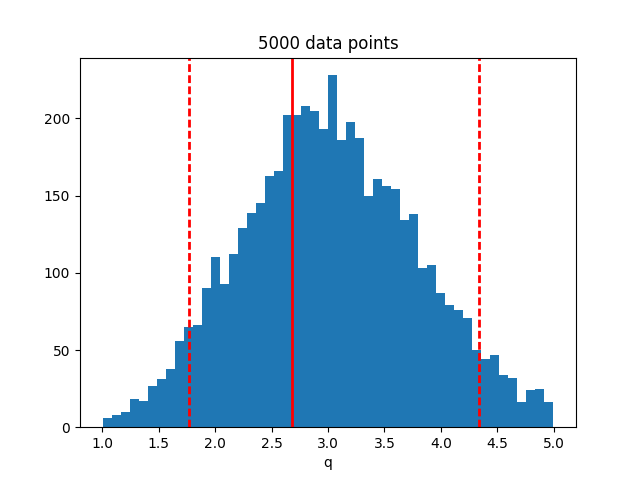
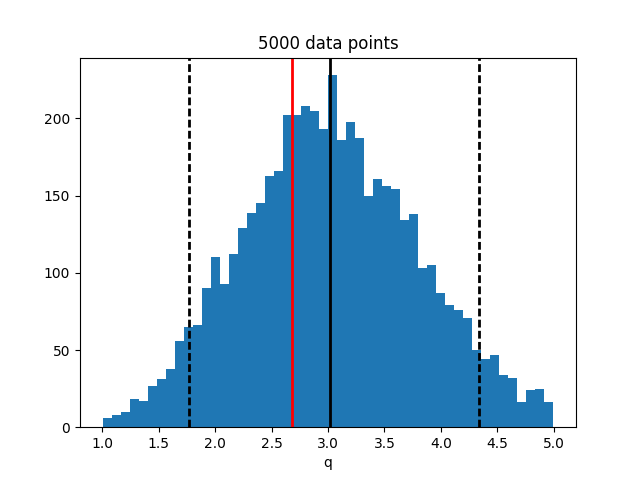
Testing different colours for mean and confidence intervals

diff --git a/Inference/postMulti.py b/Inference/postMulti.py
@@ -36,14 +36,16 @@ def plotPosterior(parameter):
    parameter_values=np.sort(parameter_values)
    lower_90=parameter_values[250]
    upper_90=parameter_values[4749]
+   mean_val=np.average(parameter_values)
    
    ## Plot and save
    plt.figure()
    plt.title("%d data points" % (values))
    plt.hist(parameter_values,50)
    plt.axvline(x=injected_value,linewidth=2,color='r')
-   plt.axvline(x=lower_90,linewidth=2,linestyle='dashed',color='r')
-   plt.axvline(x=upper_90,linewidth=2,linestyle='dashed',color='r')
+   plt.axvline(x=lower_90,linewidth=2,linestyle='dashed',color='k')
+   plt.axvline(x=mean_val,linewidth=2, color='k')
+   plt.axvline(x=upper_90,linewidth=2,linestyle='dashed',color='k')
    plt.xlabel("%s" % parameter)
    plt.savefig("%s.png" % savename)
    print "Plot saved as %s.png" % savename
